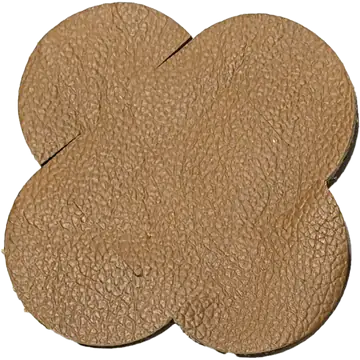
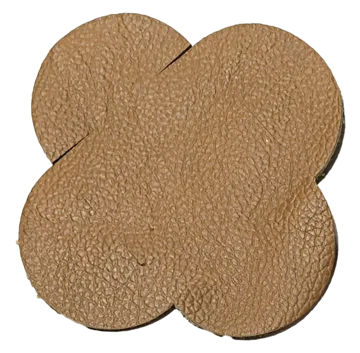
Booth game: use the approved mock's photos and card look
The owner found the recropped photos less nice than the mock's. assets/game now holds the mock's
own files (booth-flow-20261030/site, with their soft shadow, 273 KB), open cards are white with a
6 px inset and a 2 px green outline when matched, and type sizes follow the mock.

Claude-Session: https://claude.ai/code/session_01JbgEUjroqhBveZrEaPETJc

diff --git a/website/public/game.html b/website/public/game.html
@@ -8,7 +8,7 @@
 <style>
 /* Booth game (30 Oct–1 Nov 2026): one narrow column on cotton, charcoal type, the five family colours only as a thin band.
    No form, no cookie, no storage: finishing loads /game/done, which the site's request stats can count. */
-:root{--cotton:#F4F0E8;--paper:#FBF9F4;--face:#E6DED1;--charcoal:#2A2725;--muted:#6E6A64;--line:#DCD4C7;--mom:#5E7A3A;
+:root{--cotton:#F4F0E8;--paper:#FBF9F4;--face:#FFFFFF;--charcoal:#2A2725;--muted:#6E6A64;--line:#DCD4C7;--mom:#5E7A3A;
   --th:"Anuphan","IBM Plex Sans Thai",system-ui,sans-serif;--body:"IBM Plex Sans Thai",system-ui,sans-serif;--latin:"Jost",system-ui,sans-serif;color-scheme:light}
 *{box-sizing:border-box}
 html{-webkit-text-size-adjust:100%}
@@ -19,31 +19,33 @@ main{max-width:440px;margin:0 auto;padding:24px max(16px,env(safe-area-inset-rig
 .view[hidden]{display:none}
 .view{display:flex;flex-direction:column;gap:14px}
 .logo{width:56px;height:56px;display:block}
-h1{font-family:var(--th);font-weight:500;font-size:28px;line-height:1.25;margin:0}
+h1{font-family:var(--th);font-weight:500;font-size:24px;line-height:1.25;margin:0}
+.done h1{font-size:30px}
 p{margin:0}
-.muted{color:var(--muted);font-size:15px;text-wrap:pretty}
+.muted{color:var(--muted);font-size:14px;text-wrap:pretty}
 h1{text-wrap:balance}
-.board{display:grid;grid-template-columns:repeat(3,minmax(0,1fr));gap:10px}
-.cd{position:relative;aspect-ratio:1/1;border:0;border-radius:14px;padding:0;cursor:pointer;background:var(--charcoal);color:var(--cotton);
+.board{display:grid;grid-template-columns:repeat(3,minmax(0,1fr));gap:8px}
+.cd{position:relative;aspect-ratio:1/1;border:0;border-radius:10px;padding:0;cursor:pointer;background:var(--charcoal);color:var(--cotton);
   font:500 14px var(--latin);letter-spacing:.04em;display:grid;place-items:center;touch-action:manipulation;-webkit-tap-highlight-color:transparent}
-.cd img{position:absolute;inset:8%;width:84%;height:84%;object-fit:contain;opacity:0}
+.cd img{position:absolute;inset:6px;width:calc(100% - 12px);height:calc(100% - 12px);object-fit:contain;opacity:0}
 .cd.open,.cd.done{background:var(--face)}
 .cd.open img,.cd.done img{opacity:1}
 .cd.open span,.cd.done span{opacity:0}
-.cd.done{box-shadow:inset 0 0 0 3px var(--mom);cursor:default}
+.cd.done{outline:2px solid var(--mom);cursor:default}
 .cd:focus-visible{outline:3px solid #E9A825;outline-offset:2px}
 @media (prefers-reduced-motion:no-preference){.cd{transition:background .18s}.cd img,.cd span{transition:opacity .18s}}
-.count{font-size:15px;color:var(--muted)}.count b{color:var(--charcoal);font-family:var(--latin);font-weight:500}
+.count{font-size:14px;color:var(--muted)}.count b{color:var(--charcoal);font-family:var(--latin);font-weight:500}
 .done{text-align:center;align-items:center}
 .time{font-family:var(--latin);font-size:18px;color:var(--muted)}
-.ticket{width:100%;background:var(--paper);border:2px solid var(--charcoal);border-radius:16px;padding:18px 16px;display:flex;flex-direction:column;align-items:center;gap:6px}
-.ticket b{font-family:var(--th);font-weight:500;font-size:20px;line-height:1.3}
-.ticket span{font-size:17px}
-.ticket img{width:128px;height:128px;margin-top:6px}
+.ticket{width:100%;background:#fff;border:2px solid var(--charcoal);border-radius:16px;padding:18px 16px;display:flex;flex-direction:column;align-items:center;gap:6px}
+.ticket b{font-family:var(--th);font-weight:500;font-size:17px;line-height:1.3}
+.ticket span{font-size:15px}
+.ticket img{width:110px;height:110px;margin-top:6px}
 .btns{display:flex;gap:10px;width:100%}
 .btn{flex:1;display:flex;align-items:center;justify-content:center;min-height:48px;border-radius:999px;font-weight:600;font-size:16px;text-decoration:none}
 .btn.dark{background:var(--charcoal);color:var(--cotton)}.btn.light{background:var(--paper);color:var(--charcoal);border:1px solid var(--line)}
-.small{font-size:14px;color:var(--muted)}
+.small{font-size:13px;color:var(--muted)}
+.diy{font-size:13px}
 </style></head><body>
 <div class="band" aria-hidden="true"><i></i><i></i><i></i><i></i><i></i></div>
 <main>
@@ -60,8 +62,8 @@ h1{text-wrap:balance}
 <h1>เล่นจบแล้ว</h1>
 <p class="time" id="now" aria-label="เวลาตอนนี้"></p>
 <div class="ticket"><b>โชว์หน้านี้ที่บูธ OCT. 26</b><span>รับชิ้นหนังวัวแท้ 01 ฟรี 1 แผ่น</span>
-<img src="/assets/game/01-3.webp" alt="ชิ้นหนังวัวแท้แพตเทิร์น 01" width="128" height="128"></div>
-<p>ที่บูธมีมุมวาดลายหรือเขียนชื่อบนชิ้นหนัง</p>
+<img src="/assets/game/01-3.webp" alt="ชิ้นหนังวัวแท้แพตเทิร์น 01" width="110" height="110"></div>
+<p class="diy">ที่บูธมีมุมวาดลายหรือเขียนชื่อบนชิ้นหนัง</p>
 <p class="small">ระหว่างรอ ฝากติดตามเราด้วย</p>
 <div class="btns"><a class="btn dark" href="https://www.instagram.com/oct.26_brand/" target="_blank" rel="noopener">Instagram</a><a class="btn light" href="https://www.facebook.com/oct26brand" target="_blank" rel="noopener">Facebook</a></div>
 <p class="small">ไม่ติดตามก็รับได้ · คนละ 1 แผ่น</p>

diff --git a/website/public/game/done.html b/website/public/game/done.html
@@ -8,7 +8,7 @@
 <style>
 /* Booth game (30 Oct–1 Nov 2026): one narrow column on cotton, charcoal type, the five family colours only as a thin band.
    No form, no cookie, no storage: finishing loads /game/done, which the site's request stats can count. */
-:root{--cotton:#F4F0E8;--paper:#FBF9F4;--face:#E6DED1;--charcoal:#2A2725;--muted:#6E6A64;--line:#DCD4C7;--mom:#5E7A3A;
+:root{--cotton:#F4F0E8;--paper:#FBF9F4;--face:#FFFFFF;--charcoal:#2A2725;--muted:#6E6A64;--line:#DCD4C7;--mom:#5E7A3A;
   --th:"Anuphan","IBM Plex Sans Thai",system-ui,sans-serif;--body:"IBM Plex Sans Thai",system-ui,sans-serif;--latin:"Jost",system-ui,sans-serif;color-scheme:light}
 *{box-sizing:border-box}
 html{-webkit-text-size-adjust:100%}
@@ -19,31 +19,33 @@ main{max-width:440px;margin:0 auto;padding:24px max(16px,env(safe-area-inset-rig
 .view[hidden]{display:none}
 .view{display:flex;flex-direction:column;gap:14px}
 .logo{width:56px;height:56px;display:block}
-h1{font-family:var(--th);font-weight:500;font-size:28px;line-height:1.25;margin:0}
+h1{font-family:var(--th);font-weight:500;font-size:24px;line-height:1.25;margin:0}
+.done h1{font-size:30px}
 p{margin:0}
-.muted{color:var(--muted);font-size:15px;text-wrap:pretty}
+.muted{color:var(--muted);font-size:14px;text-wrap:pretty}
 h1{text-wrap:balance}
-.board{display:grid;grid-template-columns:repeat(3,minmax(0,1fr));gap:10px}
-.cd{position:relative;aspect-ratio:1/1;border:0;border-radius:14px;padding:0;cursor:pointer;background:var(--charcoal);color:var(--cotton);
+.board{display:grid;grid-template-columns:repeat(3,minmax(0,1fr));gap:8px}
+.cd{position:relative;aspect-ratio:1/1;border:0;border-radius:10px;padding:0;cursor:pointer;background:var(--charcoal);color:var(--cotton);
   font:500 14px var(--latin);letter-spacing:.04em;display:grid;place-items:center;touch-action:manipulation;-webkit-tap-highlight-color:transparent}
-.cd img{position:absolute;inset:8%;width:84%;height:84%;object-fit:contain;opacity:0}
+.cd img{position:absolute;inset:6px;width:calc(100% - 12px);height:calc(100% - 12px);object-fit:contain;opacity:0}
 .cd.open,.cd.done{background:var(--face)}
 .cd.open img,.cd.done img{opacity:1}
 .cd.open span,.cd.done span{opacity:0}
-.cd.done{box-shadow:inset 0 0 0 3px var(--mom);cursor:default}
+.cd.done{outline:2px solid var(--mom);cursor:default}
 .cd:focus-visible{outline:3px solid #E9A825;outline-offset:2px}
 @media (prefers-reduced-motion:no-preference){.cd{transition:background .18s}.cd img,.cd span{transition:opacity .18s}}
-.count{font-size:15px;color:var(--muted)}.count b{color:var(--charcoal);font-family:var(--latin);font-weight:500}
+.count{font-size:14px;color:var(--muted)}.count b{color:var(--charcoal);font-family:var(--latin);font-weight:500}
 .done{text-align:center;align-items:center}
 .time{font-family:var(--latin);font-size:18px;color:var(--muted)}
-.ticket{width:100%;background:var(--paper);border:2px solid var(--charcoal);border-radius:16px;padding:18px 16px;display:flex;flex-direction:column;align-items:center;gap:6px}
-.ticket b{font-family:var(--th);font-weight:500;font-size:20px;line-height:1.3}
-.ticket span{font-size:17px}
-.ticket img{width:128px;height:128px;margin-top:6px}
+.ticket{width:100%;background:#fff;border:2px solid var(--charcoal);border-radius:16px;padding:18px 16px;display:flex;flex-direction:column;align-items:center;gap:6px}
+.ticket b{font-family:var(--th);font-weight:500;font-size:17px;line-height:1.3}
+.ticket span{font-size:15px}
+.ticket img{width:110px;height:110px;margin-top:6px}
 .btns{display:flex;gap:10px;width:100%}
 .btn{flex:1;display:flex;align-items:center;justify-content:center;min-height:48px;border-radius:999px;font-weight:600;font-size:16px;text-decoration:none}
 .btn.dark{background:var(--charcoal);color:var(--cotton)}.btn.light{background:var(--paper);color:var(--charcoal);border:1px solid var(--line)}
-.small{font-size:14px;color:var(--muted)}
+.small{font-size:13px;color:var(--muted)}
+.diy{font-size:13px}
 </style></head><body>
 <div class="band" aria-hidden="true"><i></i><i></i><i></i><i></i><i></i></div>
 <main>
@@ -60,8 +62,8 @@ h1{text-wrap:balance}
 <h1>เล่นจบแล้ว</h1>
 <p class="time" id="now" aria-label="เวลาตอนนี้"></p>
 <div class="ticket"><b>โชว์หน้านี้ที่บูธ OCT. 26</b><span>รับชิ้นหนังวัวแท้ 01 ฟรี 1 แผ่น</span>
-<img src="/assets/game/01-3.webp" alt="ชิ้นหนังวัวแท้แพตเทิร์น 01" width="128" height="128"></div>
-<p>ที่บูธมีมุมวาดลายหรือเขียนชื่อบนชิ้นหนัง</p>
+<img src="/assets/game/01-3.webp" alt="ชิ้นหนังวัวแท้แพตเทิร์น 01" width="110" height="110"></div>
+<p class="diy">ที่บูธมีมุมวาดลายหรือเขียนชื่อบนชิ้นหนัง</p>
 <p class="small">ระหว่างรอ ฝากติดตามเราด้วย</p>
 <div class="btns"><a class="btn dark" href="https://www.instagram.com/oct.26_brand/" target="_blank" rel="noopener">Instagram</a><a class="btn light" href="https://www.facebook.com/oct26brand" target="_blank" rel="noopener">Facebook</a></div>
 <p class="small">ไม่ติดตามก็รับได้ · คนละ 1 แผ่น</p>

diff --git a/website/src/game.html b/website/src/game.html
@@ -8,7 +8,7 @@
 <style>
 /* Booth game (30 Oct–1 Nov 2026): one narrow column on cotton, charcoal type, the five family colours only as a thin band.
    No form, no cookie, no storage: finishing loads /game/done, which the site's request stats can count. */
-:root{--cotton:#F4F0E8;--paper:#FBF9F4;--face:#E6DED1;--charcoal:#2A2725;--muted:#6E6A64;--line:#DCD4C7;--mom:#5E7A3A;
+:root{--cotton:#F4F0E8;--paper:#FBF9F4;--face:#FFFFFF;--charcoal:#2A2725;--muted:#6E6A64;--line:#DCD4C7;--mom:#5E7A3A;
   --th:"Anuphan","IBM Plex Sans Thai",system-ui,sans-serif;--body:"IBM Plex Sans Thai",system-ui,sans-serif;--latin:"Jost",system-ui,sans-serif;color-scheme:light}
 *{box-sizing:border-box}
 html{-webkit-text-size-adjust:100%}
@@ -19,31 +19,33 @@ main{max-width:440px;margin:0 auto;padding:24px max(16px,env(safe-area-inset-rig
 .view[hidden]{display:none}
 .view{display:flex;flex-direction:column;gap:14px}
 .logo{width:56px;height:56px;display:block}
-h1{font-family:var(--th);font-weight:500;font-size:28px;line-height:1.25;margin:0}
+h1{font-family:var(--th);font-weight:500;font-size:24px;line-height:1.25;margin:0}
+.done h1{font-size:30px}
 p{margin:0}
-.muted{color:var(--muted);font-size:15px;text-wrap:pretty}
+.muted{color:var(--muted);font-size:14px;text-wrap:pretty}
 h1{text-wrap:balance}
-.board{display:grid;grid-template-columns:repeat(3,minmax(0,1fr));gap:10px}
-.cd{position:relative;aspect-ratio:1/1;border:0;border-radius:14px;padding:0;cursor:pointer;background:var(--charcoal);color:var(--cotton);
+.board{display:grid;grid-template-columns:repeat(3,minmax(0,1fr));gap:8px}
+.cd{position:relative;aspect-ratio:1/1;border:0;border-radius:10px;padding:0;cursor:pointer;background:var(--charcoal);color:var(--cotton);
   font:500 14px var(--latin);letter-spacing:.04em;display:grid;place-items:center;touch-action:manipulation;-webkit-tap-highlight-color:transparent}
-.cd img{position:absolute;inset:8%;width:84%;height:84%;object-fit:contain;opacity:0}
+.cd img{position:absolute;inset:6px;width:calc(100% - 12px);height:calc(100% - 12px);object-fit:contain;opacity:0}
 .cd.open,.cd.done{background:var(--face)}
 .cd.open img,.cd.done img{opacity:1}
 .cd.open span,.cd.done span{opacity:0}
-.cd.done{box-shadow:inset 0 0 0 3px var(--mom);cursor:default}
+.cd.done{outline:2px solid var(--mom);cursor:default}
 .cd:focus-visible{outline:3px solid #E9A825;outline-offset:2px}
 @media (prefers-reduced-motion:no-preference){.cd{transition:background .18s}.cd img,.cd span{transition:opacity .18s}}
-.count{font-size:15px;color:var(--muted)}.count b{color:var(--charcoal);font-family:var(--latin);font-weight:500}
+.count{font-size:14px;color:var(--muted)}.count b{color:var(--charcoal);font-family:var(--latin);font-weight:500}
 .done{text-align:center;align-items:center}
 .time{font-family:var(--latin);font-size:18px;color:var(--muted)}
-.ticket{width:100%;background:var(--paper);border:2px solid var(--charcoal);border-radius:16px;padding:18px 16px;display:flex;flex-direction:column;align-items:center;gap:6px}
-.ticket b{font-family:var(--th);font-weight:500;font-size:20px;line-height:1.3}
-.ticket span{font-size:17px}
-.ticket img{width:128px;height:128px;margin-top:6px}
+.ticket{width:100%;background:#fff;border:2px solid var(--charcoal);border-radius:16px;padding:18px 16px;display:flex;flex-direction:column;align-items:center;gap:6px}
+.ticket b{font-family:var(--th);font-weight:500;font-size:17px;line-height:1.3}
+.ticket span{font-size:15px}
+.ticket img{width:110px;height:110px;margin-top:6px}
 .btns{display:flex;gap:10px;width:100%}
 .btn{flex:1;display:flex;align-items:center;justify-content:center;min-height:48px;border-radius:999px;font-weight:600;font-size:16px;text-decoration:none}
 .btn.dark{background:var(--charcoal);color:var(--cotton)}.btn.light{background:var(--paper);color:var(--charcoal);border:1px solid var(--line)}
-.small{font-size:14px;color:var(--muted)}
+.small{font-size:13px;color:var(--muted)}
+.diy{font-size:13px}
 </style></head><body>
 <div class="band" aria-hidden="true"><i></i><i></i><i></i><i></i><i></i></div>
 <main>
@@ -60,8 +62,8 @@ h1{text-wrap:balance}
 <h1>เล่นจบแล้ว</h1>
 <p class="time" id="now" aria-label="เวลาตอนนี้"></p>
 <div class="ticket"><b>โชว์หน้านี้ที่บูธ OCT. 26</b><span>รับชิ้นหนังวัวแท้ 01 ฟรี 1 แผ่น</span>
-<img src="/assets/game/01-3.webp" alt="ชิ้นหนังวัวแท้แพตเทิร์น 01" width="128" height="128"></div>
-<p>ที่บูธมีมุมวาดลายหรือเขียนชื่อบนชิ้นหนัง</p>
+<img src="/assets/game/01-3.webp" alt="ชิ้นหนังวัวแท้แพตเทิร์น 01" width="110" height="110"></div>
+<p class="diy">ที่บูธมีมุมวาดลายหรือเขียนชื่อบนชิ้นหนัง</p>
 <p class="small">ระหว่างรอ ฝากติดตามเราด้วย</p>
 <div class="btns"><a class="btn dark" href="{{ig}}" target="_blank" rel="noopener">Instagram</a><a class="btn light" href="{{fb}}" target="_blank" rel="noopener">Facebook</a></div>
 <p class="small">ไม่ติดตามก็รับได้ · คนละ 1 แผ่น</p>

diff --git a/website/summary-game/index.html b/website/summary-game/index.html
@@ -33,7 +33,7 @@ code{font-size:14px;background:rgba(42,39,37,.08);padding:1px 6px;border-radius:
 <figure><img src="done.jpg" alt="หน้าเล่นจบ โชว์ที่บูธ รับชิ้นหนัง 01 ฟรี" width="360" height="740"><figcaption>/game/done โชว์ที่บูธ</figcaption></figure></div></div></section>
 <section class="blk beiya"><div class="in"><span class="eb">ตัวเลข</span><h2>ตามคำสั่ง</h2>
 <ul><li>การ์ด 12 ใบ 6 คู่ รูปจริงไดคัต 01 03 04 05 05 07 สุ่มทุกครั้ง การ์ดกว้างราว 103 px กดด้วยนิ้วได้</li>
-<li>รูปรวม 264 KB · จบเกมแล้วไปที่อยู่ /game/done จริง นับจำนวนคนเล่นจบได้</li>
+<li>รูปชุดเดียวกับ mock รวม 273 KB · จบเกมแล้วไปที่อยู่ /game/done จริง นับจำนวนคนเล่นจบได้</li>
 <li>หน้าจบมีเวลาเวลาไทย กล่องขอบดำ "โชว์หน้านี้ที่บูธ OCT. 26 · รับชิ้นหนังวัวแท้ 01 ฟรี 1 แผ่น" ปุ่ม IG FB เป็นการชวน</li>
 <li>ไม่มีฟอร์ม ไม่ใช้ cookie ไม่เก็บอะไรในเครื่อง · ไม่อยู่ใน Google เมนู หรือ sitemap</li>
 <li>หลัง 1 พ.ย. 17:00 ทั้งสองหน้าขึ้น "กิจกรรมที่บูธจบแล้ว ขอบคุณที่แวะมา" เอง</li></ul></div></section>

diff --git a/website/README.md b/website/README.md
@@ -28,7 +28,7 @@ LINE order bar that copies the full order. Brand Book v2 colours, square logo, A
   Google Search Console (owner verifies the domain, then submit `sitemap.xml`), pattern pages 01–07, a leather care
   page, a workshop page and an ideas page, same keywords in Shopee titles.
 - `/game` and `/game/done` — the booth game for 30 Oct–1 Nov 2026 (KIDS MARKET, from the LINE rich menu "รับชิ้นหนังฟรี"):
-  match 6 pairs of real die-cut photos (`assets/game/`, from pattern-intro-20261022/plan-web, 360 px webp, ~264 KB),
+  match 6 pairs of real die-cut photos (`assets/game/`: the same files as the approved mock, booth-flow-20261030/site, 360 px webp with their soft shadow, ~273 KB),
   then /game/done shows the time and "โชว์หน้านี้ที่บูธ OCT. 26 · รับชิ้นหนังวัวแท้ 01 ฟรี 1 แผ่น". Page: `src/game.html`,
   cards and end time: `catalog.GAME`. Finishing loads the real address /game/done so request stats can count it. No form,
   no cookie, no storage; anyone may open /game/done directly (owner's choice). noindex, not in the sitemap or menu. After
